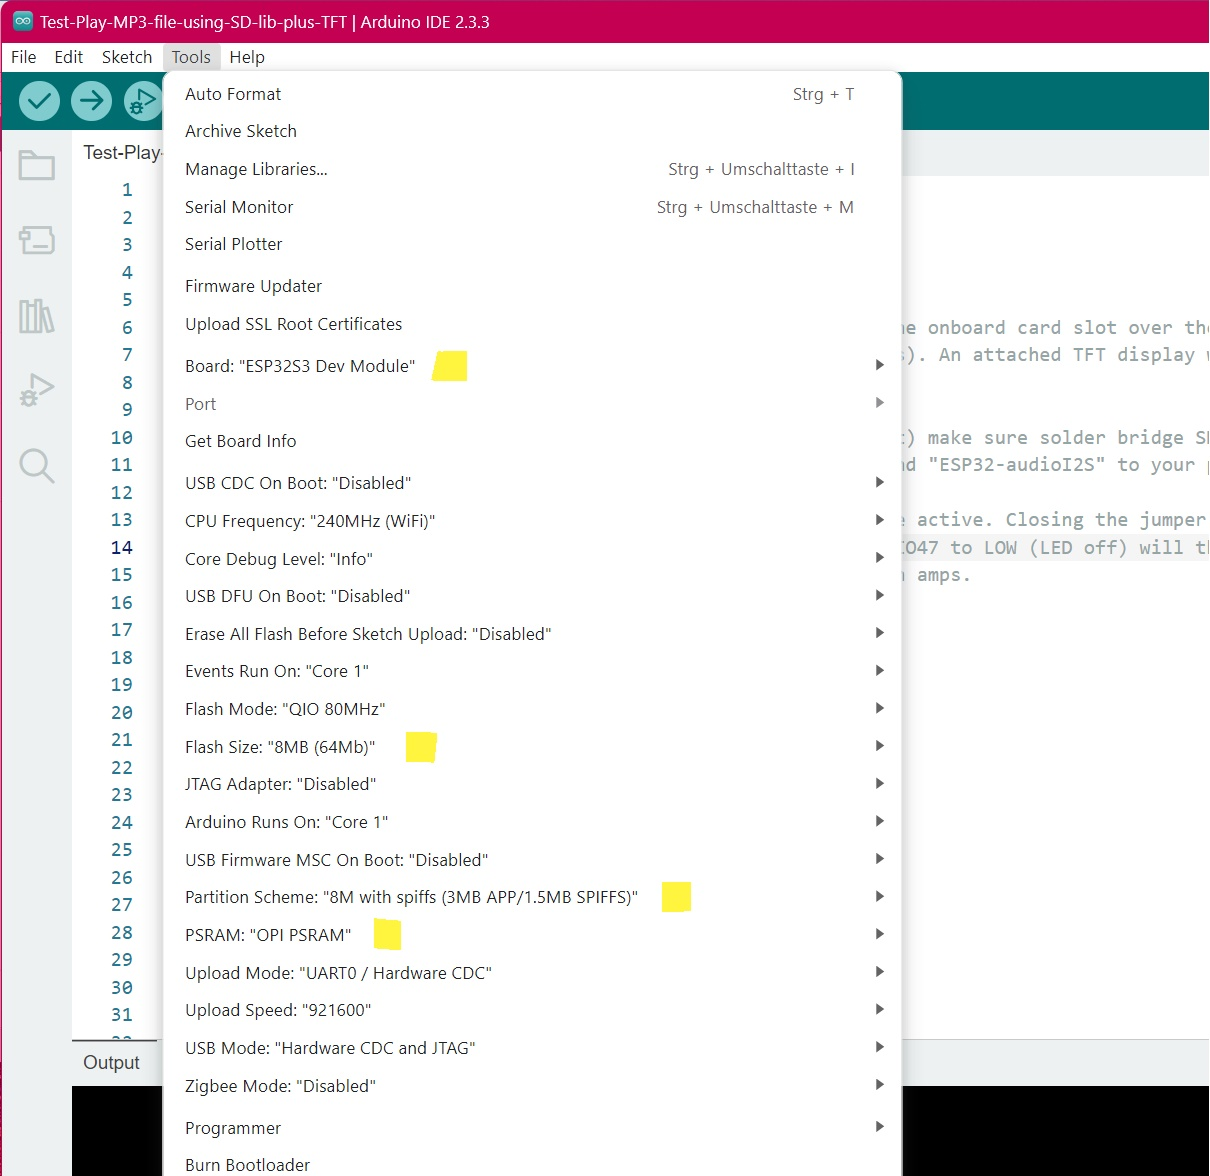
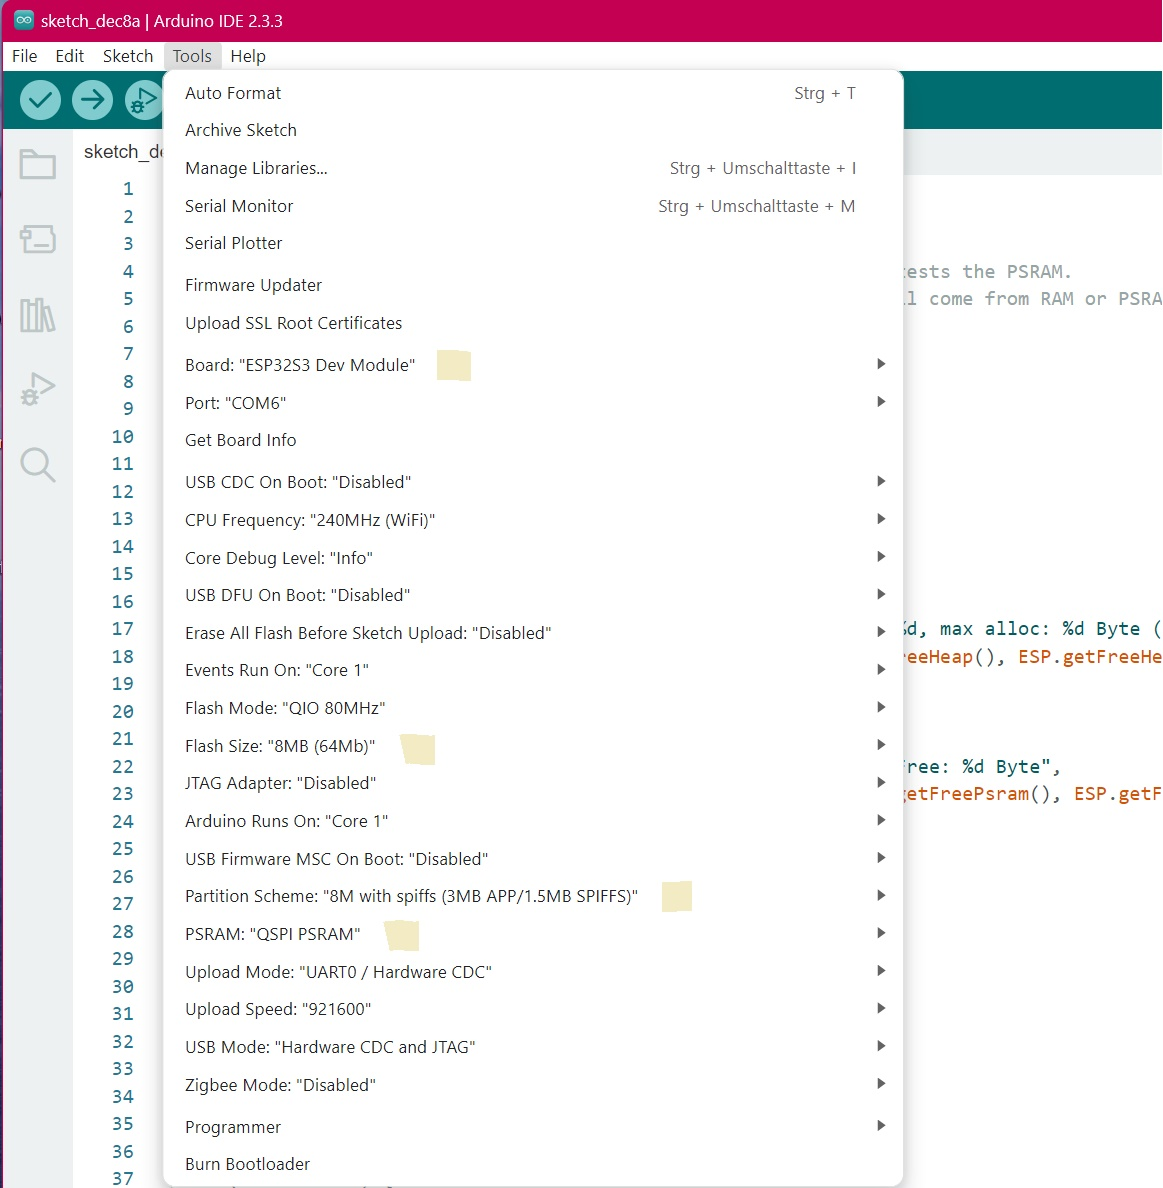
Readme.md updated (PSRAM: QSPI !)

diff --git a/boards/YB-ESP32-S3-AMP/Readme.md b/boards/YB-ESP32-S3-AMP/Readme.md
@@ -31,7 +31,7 @@ The densly populated YB-ESP32-S3-AMP board provides multiple GPIO pins (as shown
  - **control LEDs**. One LED labeled 'P' is connected to the 3.3V rail to indicate board power and the other LED labeled 'IO47' is connected to GPIO47 which can be used as status LED.  
  If solder bridge *DAC_MUTE* is closed [default open] this pin can be used for muting the two audio amplifiers: active when GPIO47 is HIGH or muted when GPIO47 is LOW.
  - **USB-C** port connected to ESP32-S3 via USB-TTL bridge chip CH340 (Board revision 2.x) resp. directly to ESP32-S3 (Board revision 3.x) for serial output and software upload (e.g. via ArduinoIDE, VSCode/PlatformIO etc). Can also be used to power the board.
- - **hardware logic** for *automatic* software uploads (supported by most Development IDEs) via USB-C port. How this works is explained [here](https://github.com/yellobyte/ESP32-DevBoards-Getting-Started/tree/main/reset_and_software_upload).  
+ - **hardware logic** for *automatic* software uploads (supported by most Development IDEs) via USB-C port on boards with revision 2.x. How this works is explained [here](https://github.com/yellobyte/ESP32-DevBoards-Getting-Started/tree/main/reset_and_software_upload).  
  - **pushbuttons**. One is labeled 'R' and resets the ESP32-S3 (shorts EN pin to ground) and the other one is labeled 'B' and shorts GPIO0 to ground when pressed. The latter is sometimes needed to force the board into boot mode.
  - **lots of available GPIOs**, useful for connecting LEDs, buttons, additional modules via second SPI bus or I2C, e.g displays, rotary encoders, bluetooth, etc.
 
@@ -69,7 +69,7 @@ Settings that apply to the **YB-ESP32-S3-AMP** board:
 - Board: *ESP32S3 Dev Module*
 - Flash Size: *8MB*
 - Partition Scheme: e.g. *8MB with spiffs (...)*
-- PSRAM: *OPI PSRAM*  
+- PSRAM: *QSPI PSRAM*  
 
  ![](https://github.com/yellobyte/ESP32-DevBoards-Getting-Started/raw/main/boards/YB-ESP32-S3-AMP/doc/YB-ESP32-S3-AMP_Rev2_ArduinoIDE-Settings.jpg)  
 
